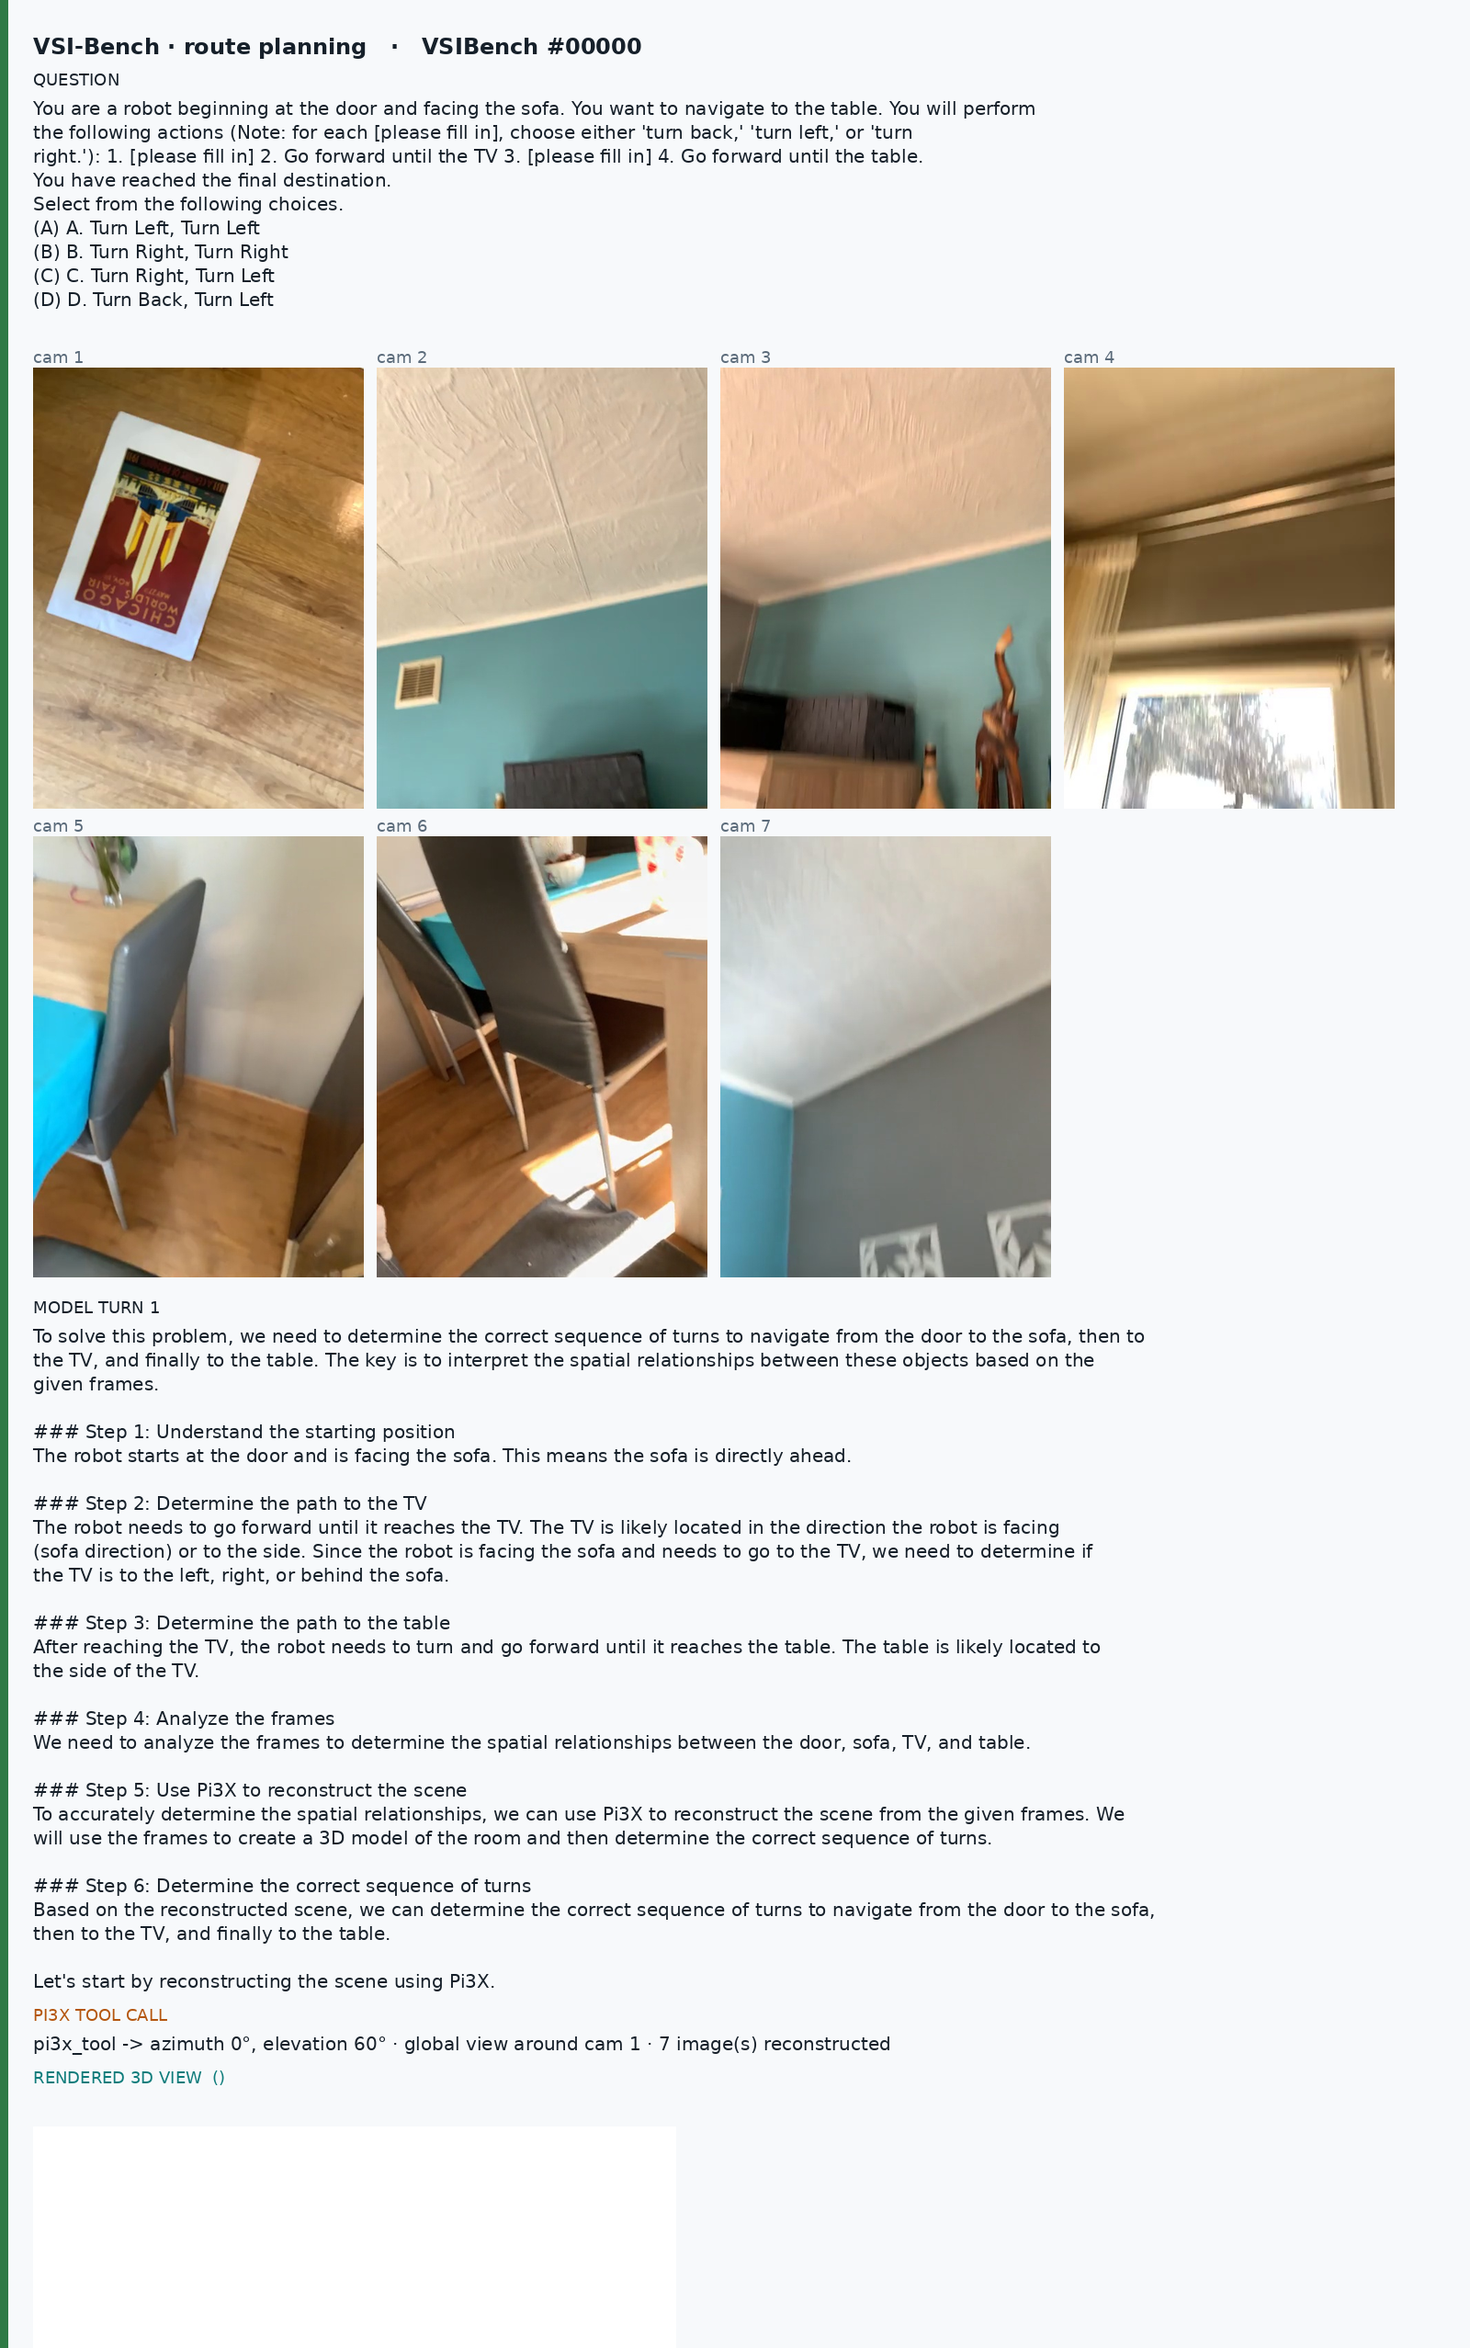
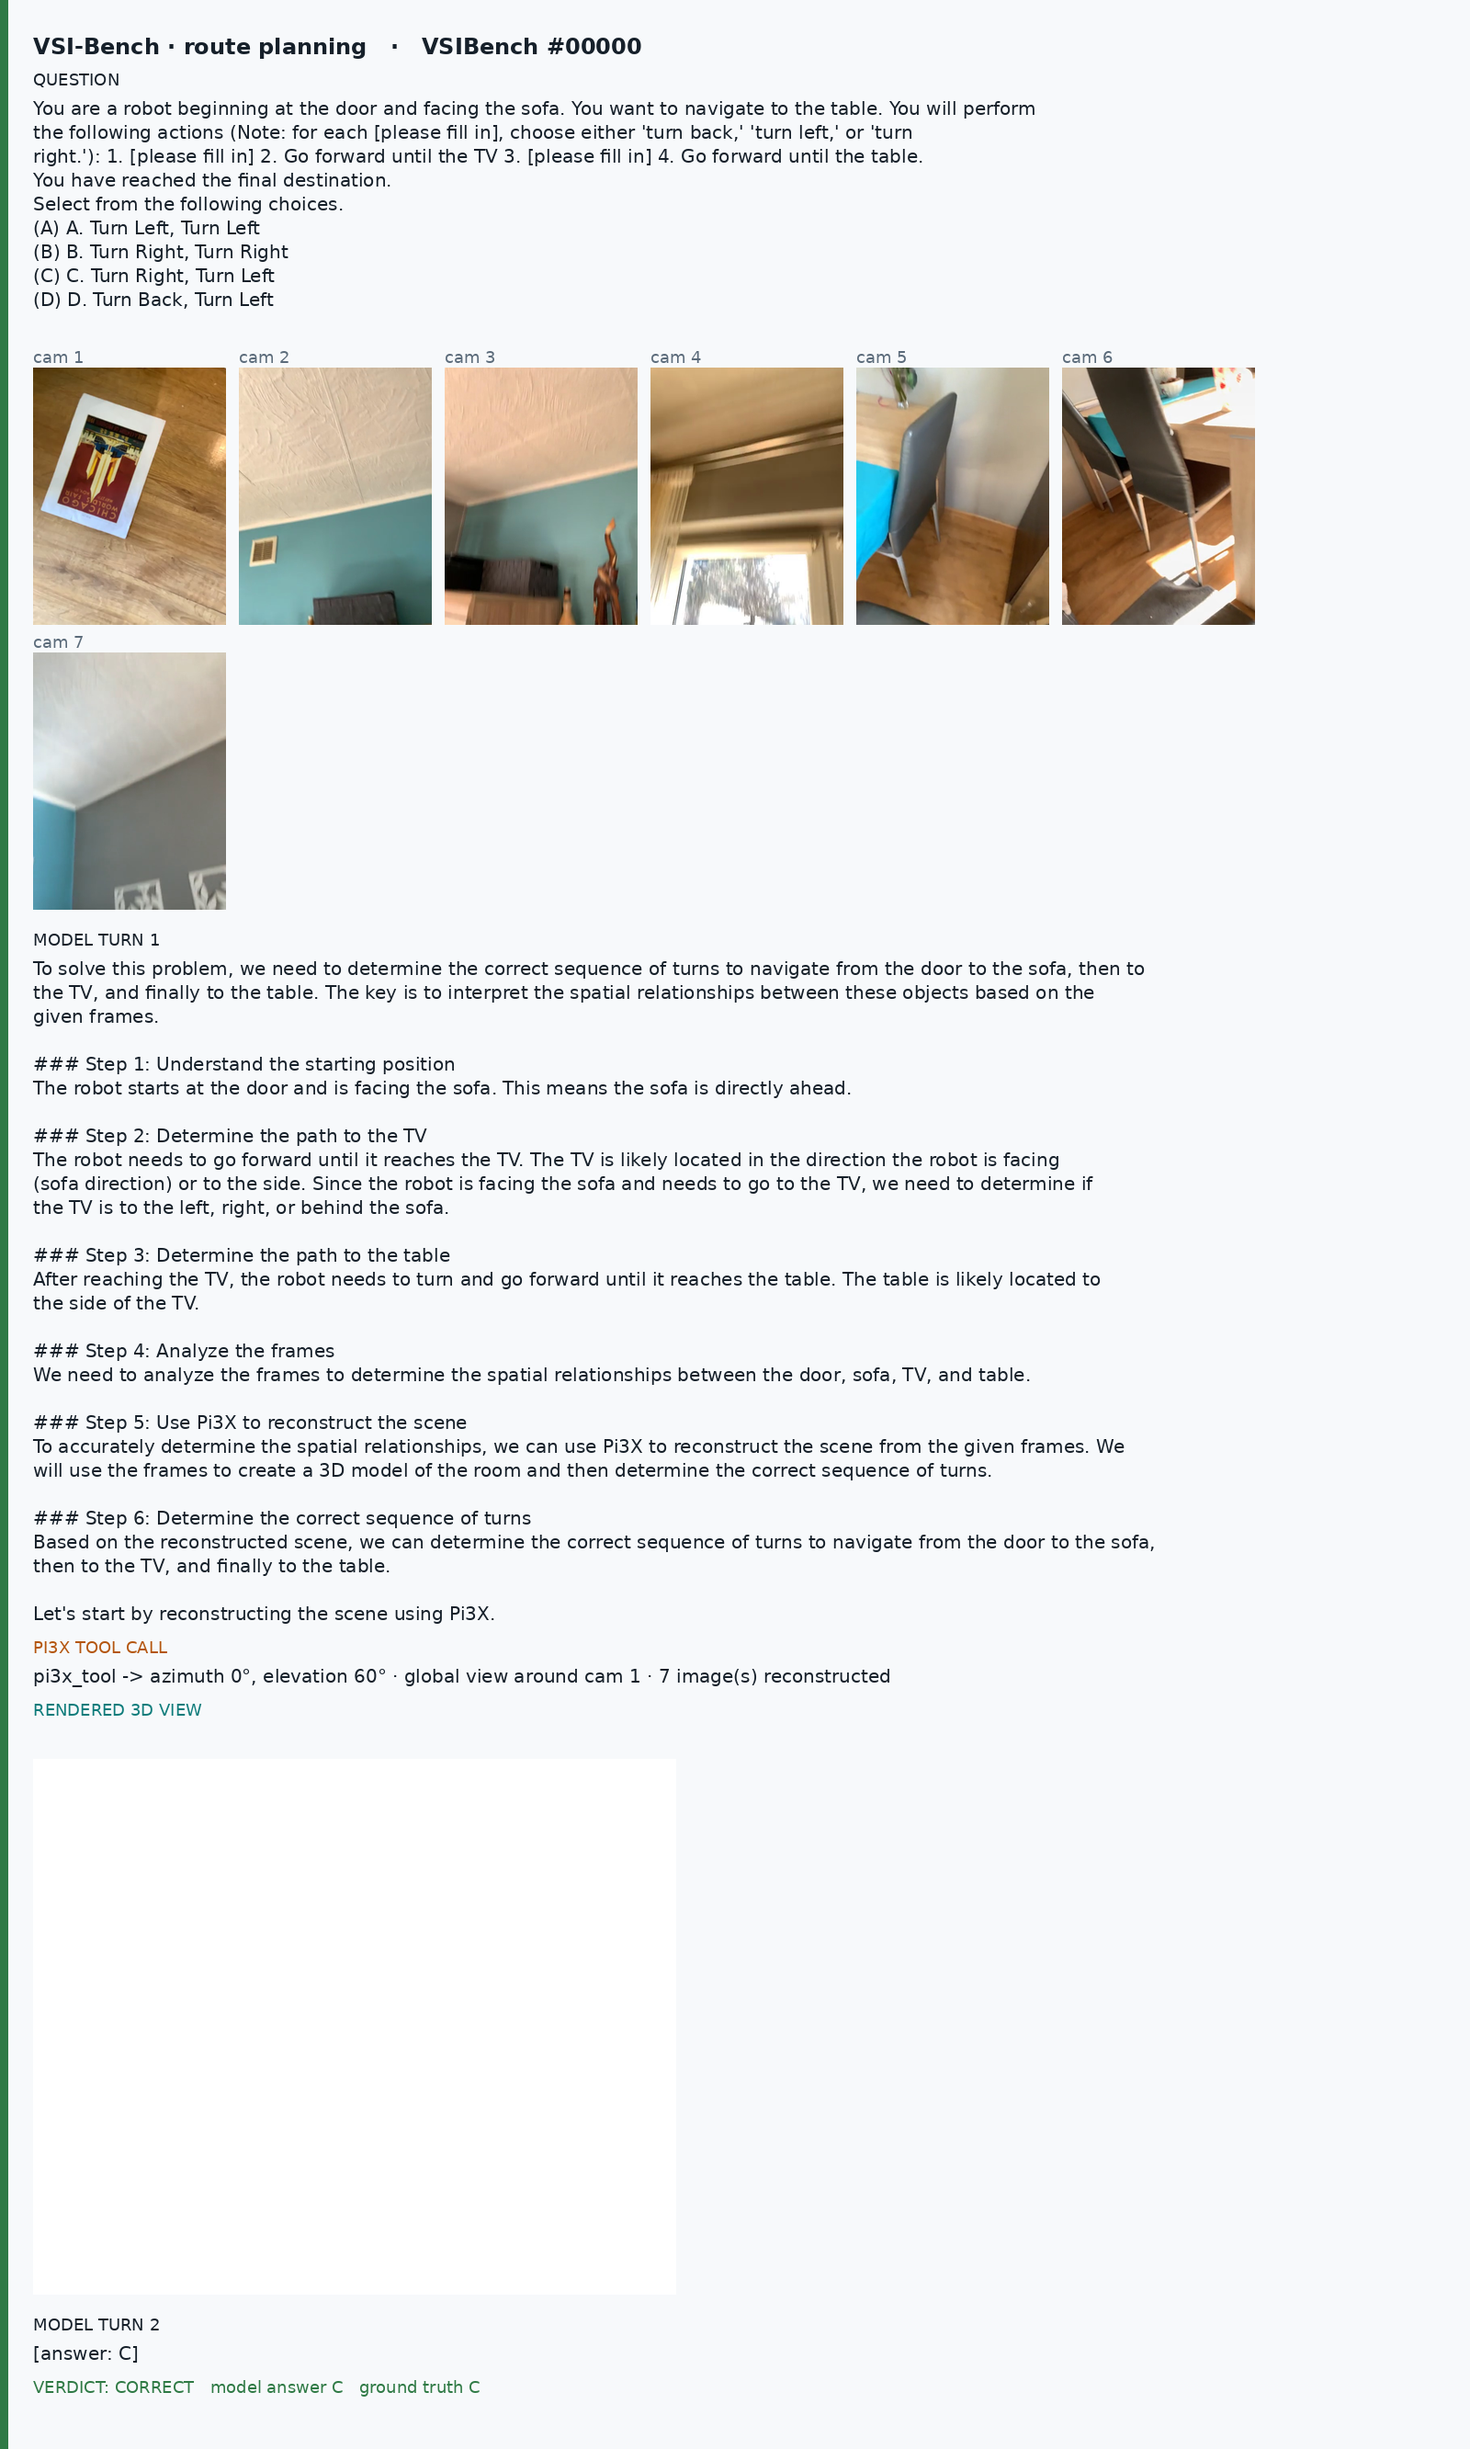
Think3D repro: complete trace figures (draw-then-crop layout), empty-render note

diff --git a/think3d_repro/scripts/make_trace_figures.py b/think3d_repro/scripts/make_trace_figures.py
@@ -45,7 +45,7 @@ for k, (label, ds, idx, steps, ok, el) in enumerate(cards, 1):
             ims = []
             for i, p in enumerate(imgs):
                 dst = os.path.join(d, 'inputs', f'cam{i+1}{os.path.splitext(p)[1]}'); shutil.copy(p if os.path.isabs(p) else os.path.join(SP, p), dst)
-                ims.append(load(p, 360))
+                ims.append(load(p, 300 if len(imgs) <= 4 else 210))
             q = html.unescape(content); txt += ['QUESTION: ' + q, '']
             blocks.append(('text', 'QUESTION', wrap(q, 110), INK)); blocks.append(('images', ims, [f'cam {i+1}' for i in range(len(ims))]))
         elif kind == 'model':
@@ -59,19 +59,14 @@ for k, (label, ds, idx, steps, ok, el) in enumerate(cards, 1):
             for j, p in enumerate(imgs):
                 shutil.copy(p if os.path.isabs(p) else os.path.join(SP, p), os.path.join(d, f'render_{j+1}.png')); ims.append(load(p, 700))
             txt += [f'RENDERED 3D VIEW: {content}', '']
-            blocks.append(('text', 'RENDERED 3D VIEW  (' + content + ')', [], ACC)); blocks.append(('images', ims, ['' for _ in ims]))
+            blocks.append(('text', 'RENDERED 3D VIEW' + (f'  ({content})' if content else ''), [], ACC)); blocks.append(('images', ims, ['' for _ in ims]))
         elif kind == 'verdict':
             pred, gt, ok = content; txt += [f'VERDICT: {"CORRECT" if ok else "WRONG"}  model={pred}  ground_truth={gt}']
             blocks.append(('text', f'VERDICT: {"CORRECT" if ok else "WRONG"}   model answer {pred}   ground truth {gt}', [], OK if ok else BAD))
     open(os.path.join(d, 'trace.txt'), 'w').write('\n'.join(txt))
-    # ---- compose ----
-    H = PAD + 40
-    for b in blocks:
-        if b[0] == 'text': H += 30 + 26 * len(b[2]) + 12
-        else: H += max(im.height for im in b[1]) + 44 if b[1] else 30
-    H += PAD
+    # ---- compose: draw on a tall canvas, then crop to the used height ----
+    H = 20000
     canvas = Image.new('RGB', (W, H), (247, 249, 251)); dr = ImageDraw.Draw(canvas)
-    dr.rectangle([0, 0, 8, H], fill=OK if ok else BAD)
     y = PAD; dr.text((PAD, y), label + f'   ·   {ds} #{idx:05d}', font=FB, fill=INK); y += 40
     for b in blocks:
         if b[0] == 'text':
@@ -80,12 +75,16 @@ for k, (label, ds, idx, steps, ok, el) in enumerate(cards, 1):
             for ln in lines: dr.text((PAD, y), ln, font=F, fill=INK); y += 26
             y += 12
         else:
-            ims, caps = b[1], b[2]; x = PAD; mh = max(im.height for im in ims) if ims else 0
+            ims, caps = b[1], b[2]; x = PAD; row_h = 0
             for im, cap in zip(ims, caps):
-                if x + im.width > W - PAD: x = PAD; y += mh + 30
+                if x + im.width > W - PAD and x > PAD:
+                    x = PAD; y += row_h + 30; row_h = 0
                 if cap: dr.text((x, y), cap, font=FM, fill=MUTED)
-                canvas.paste(im, (x, y + 22)); x += im.width + 14
-            y += mh + 44
+                canvas.paste(im, (x, y + 22)); x += im.width + 14; row_h = max(row_h, im.height)
+            y += row_h + 44
+    y += PAD
+    canvas = canvas.crop((0, 0, W, y)); dr = ImageDraw.Draw(canvas)
+    dr.rectangle([0, 0, 8, y], fill=OK if ok else BAD)
     canvas.save(os.path.join(OUT, slug + '.png'))
-    print('saved', slug + '.png', f'{W}x{H}')
+    print('saved', slug + '.png', canvas.size)
 print('done ->', OUT)

diff --git a/think3d_repro/RESULTS.md b/think3d_repro/RESULTS.md
@@ -77,6 +77,10 @@ Table 1 (VSI-Bench-tiny):
   ~130 k filtered points anyway), rollouts moved to vLLM colocate mode, and the likely viewpoints were
   pre-rendered in parallel on CPU; the optimization itself (data, rewards, rollouts / prompt, lr schedule,
   epochs) is unchanged.
+* **Empty renders.** Occasionally the Pi3X server returns an empty plot (a blank 6000×5000 px image, e.g.
+  when the requested global view leaves the reconstructed points outside the frame): 14 of 196 VSI-Bench
+  global renders (7 %), 33 / 440 on BLINK, 20 / ~10 k on MindCube. The model receives the blank image as-is
+  (visible in some cards of `figures/traces/` and the trace page).
 * **Infra.** vLLM 0.11.2's multimodal processor cache crashed one engine core (`AssertionError: Expected a
   cached item for mm_hash=...`); servers are now started with `--mm-processor-cache-gb 0`.
 
